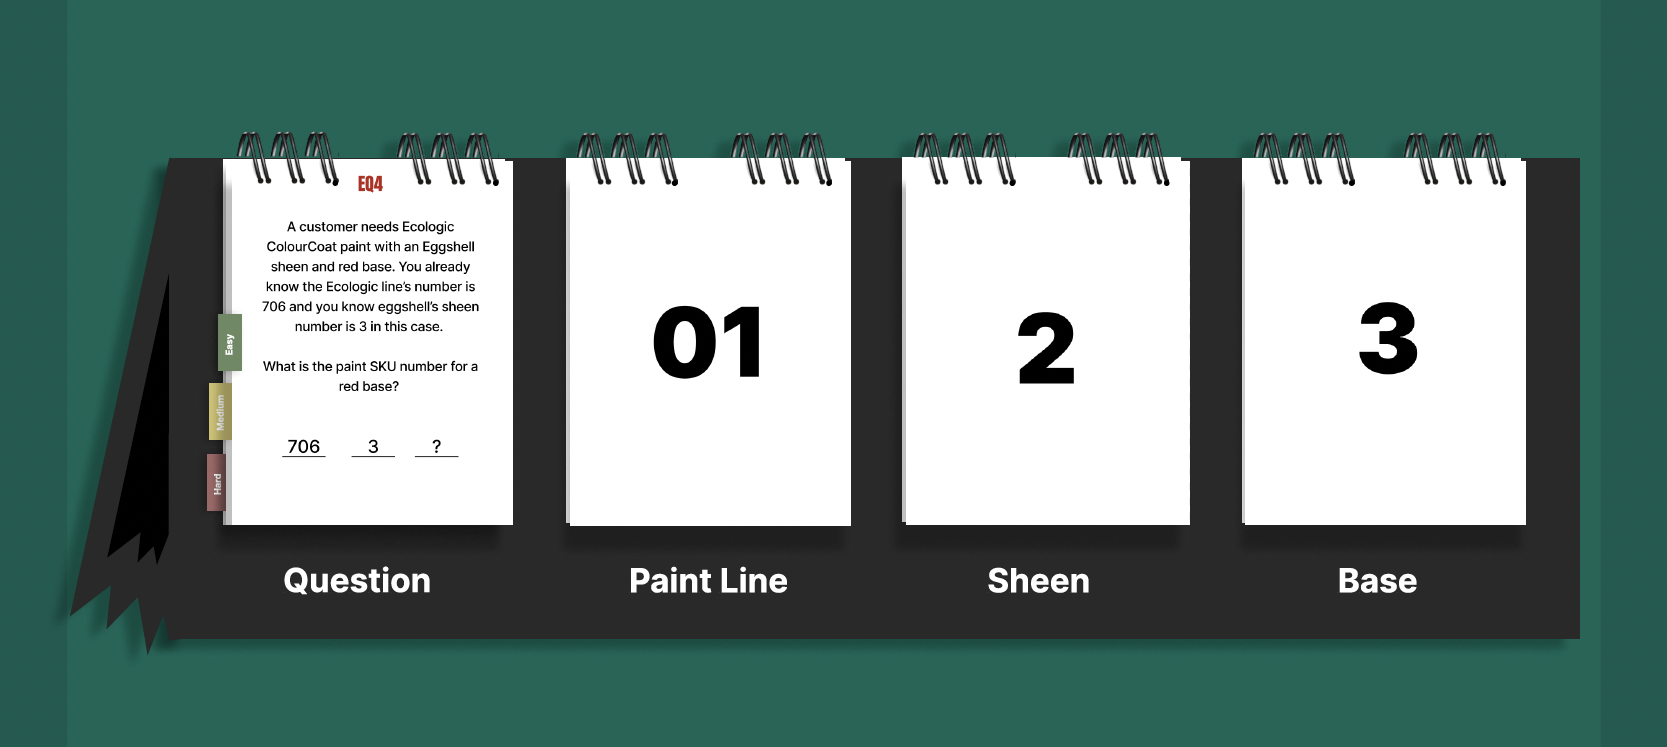
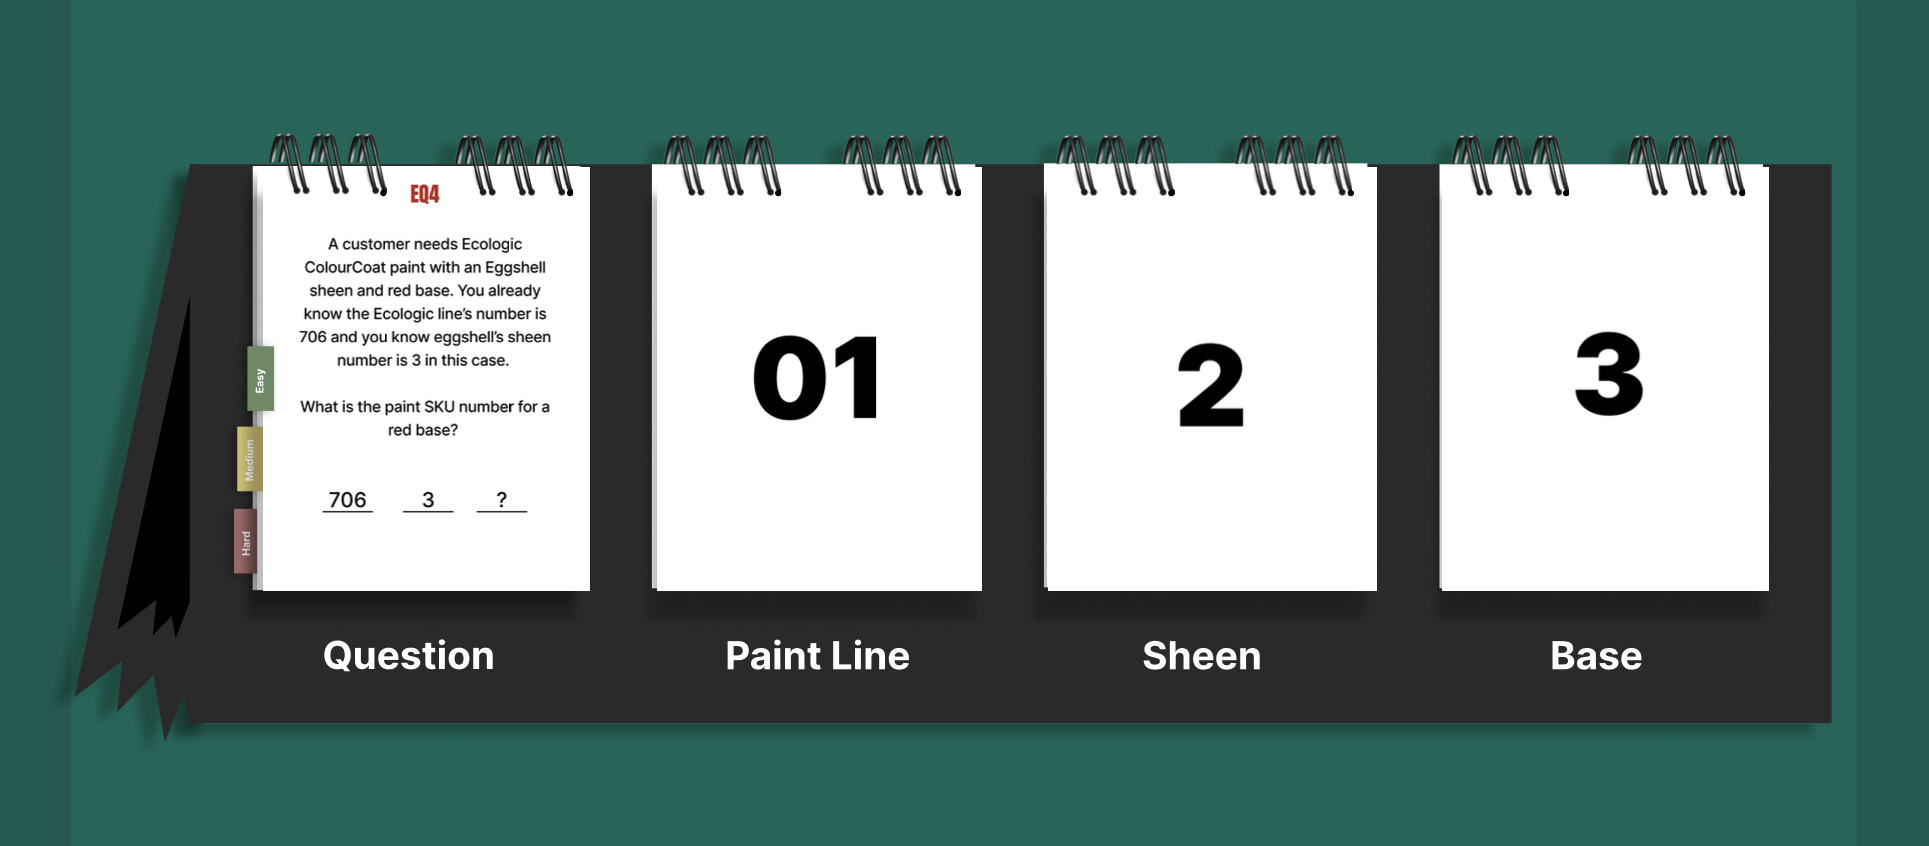
update

diff --git a/projects/paint-sku-flipbook.html b/projects/paint-sku-flipbook.html
@@ -183,14 +183,20 @@
     <div class="project-poster-grid">
       <div class="project-poster">
         <img
-         src="../images/poster-1.png"
+         src="../images/Ethnography_Poster.png"
          alt="Ethnography research poster"
          >
         </div>
         
         <div class="project-poster">
           <img
-          src="../images/poster-2.png"
+          src="../images/Ethnography_Poster.png"
+          alt="User persona research poster"
+          >
+        </div>
+        <div class="project-poster">
+          <img
+          src="../images/Ethnography_Poster.png"
           alt="User persona research poster"
           >
         </div>
